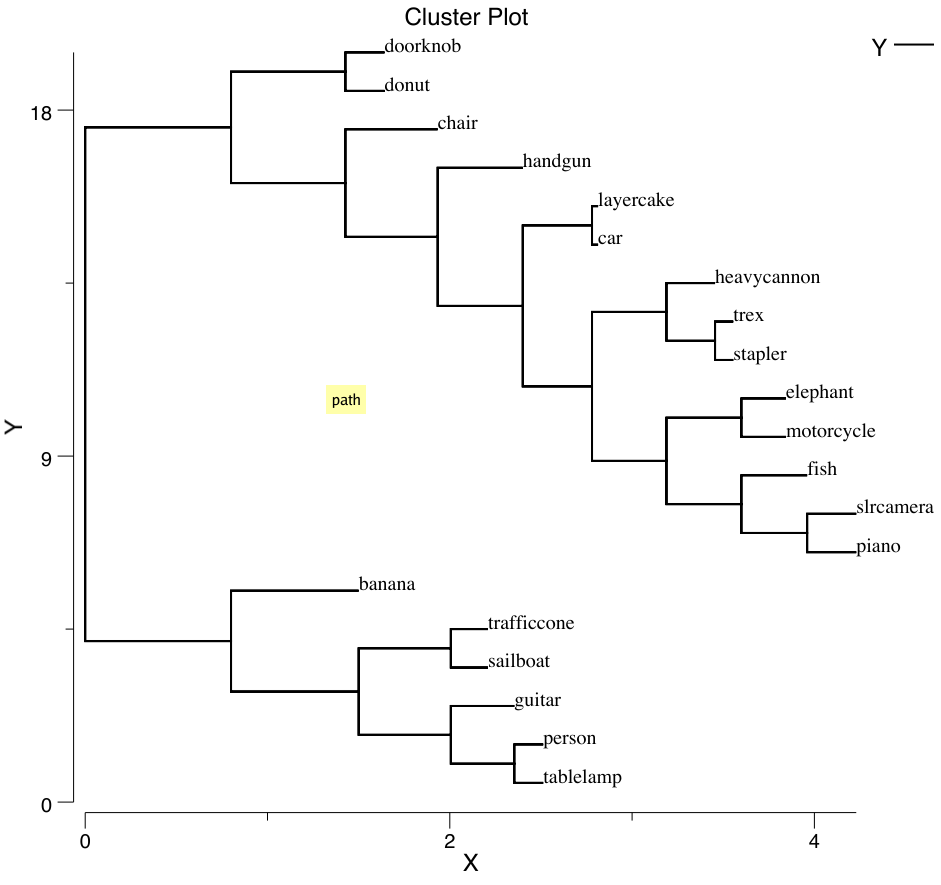
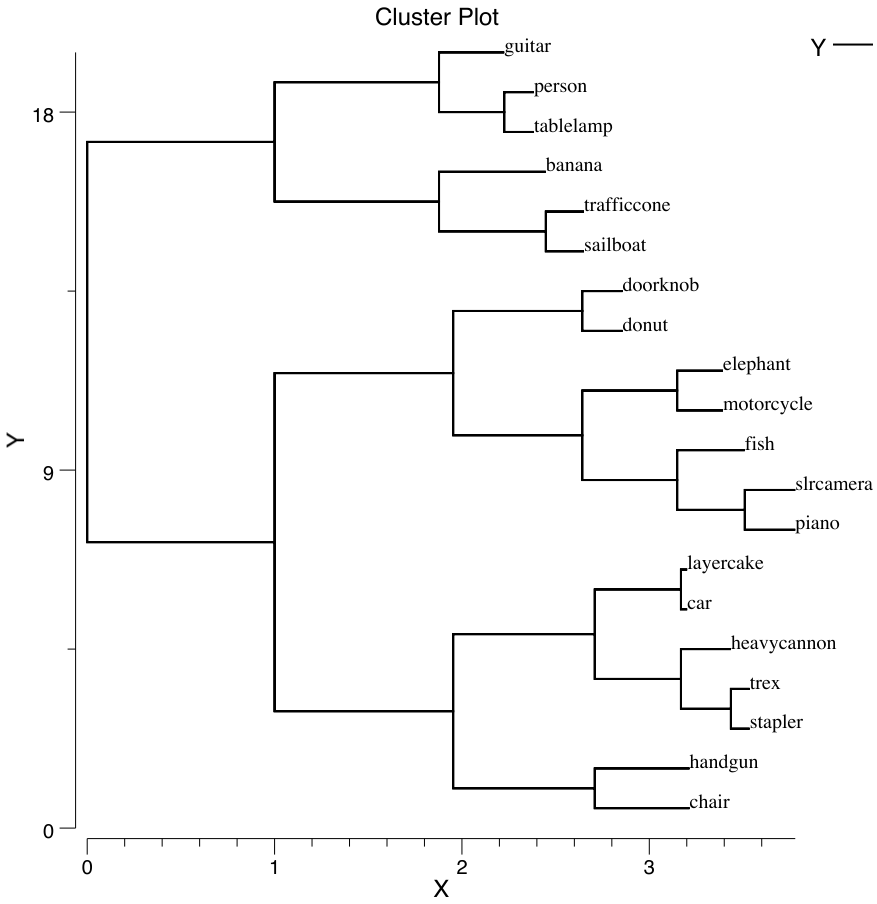
updated to contrast dist, added plots

diff --git a/expts/shape-cmp-exp1/exp1.go b/expts/shape-cmp-exp1/exp1.go
@@ -319,7 +319,7 @@ func (ex *Expt) DoSims() {
 
 func (ex *Expt) Clust() {
 	smat := &ex.SimMat
-	cl := clust.Glom(smat, clust.MaxDist) // MaxDist produces best fit
+	cl := clust.Glom(smat, clust.ContrastDist) // ContrastDist, MaxDist, Avg all produce similar good fits
 	// then plot the results
 	pt := &etable.Table{}
 	clust.Plot(pt, cl, smat)
